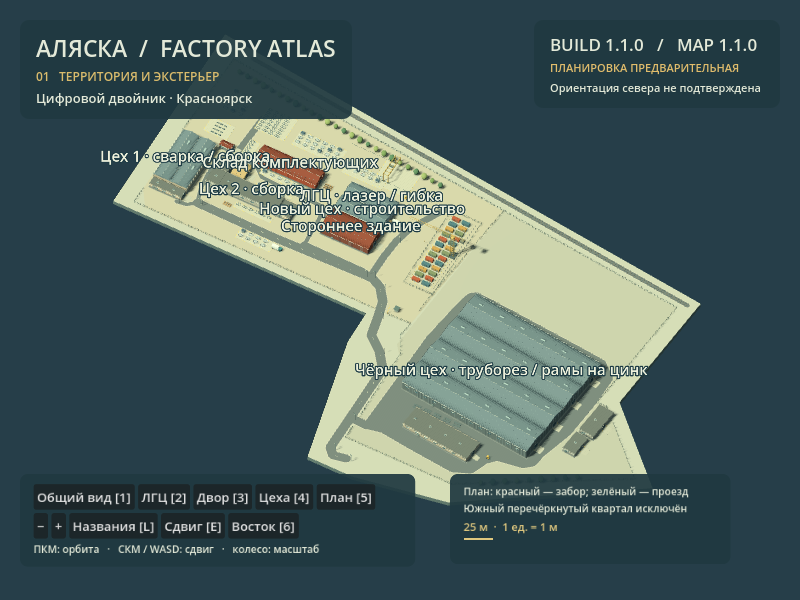
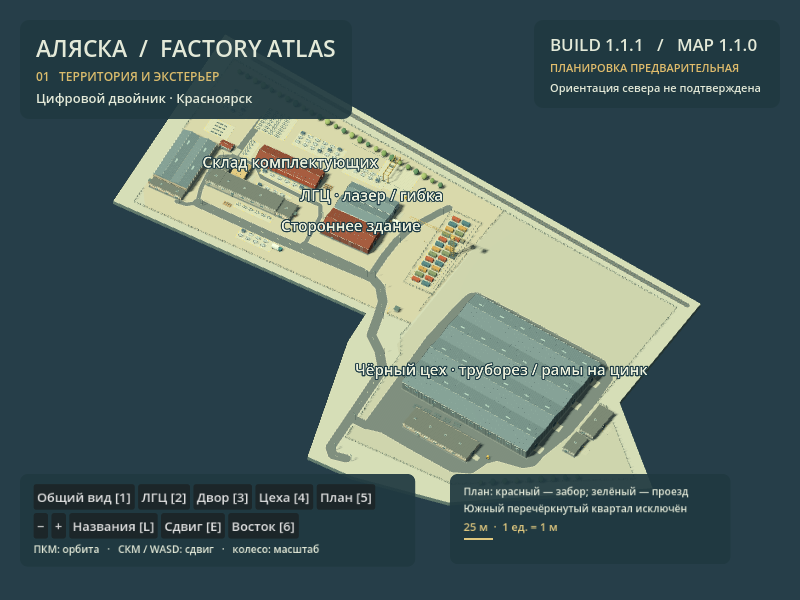
Correct roof normals, office entrances and readable labels with mesh regression checks

diff --git a/docs/ACCEPTANCE.md b/docs/ACCEPTANCE.md
@@ -1,4 +1,4 @@
-# BUILD / MAP 1.1.0 — проверка исправленной планировки
+# BUILD 1.1.1 / MAP 1.1.0 — проверка исправленной планировки
 
 ## Что исправлено относительно 1.0.0
 
@@ -6,10 +6,12 @@
 - Удалена придуманная прямоугольная сетка дорог и неверный общий периметр. Теперь это оцифрованные полилинии с поворотами и раздельными границами участков.
 - Цех 1 ориентирован с севера на юг, а не вдоль цеха 2. Цех 2, малярка и офис 2 собраны в вытянутый составной объём с плоскими кровлями.
 - Восточный чёрный цех восстановлен в масштабе большого контура на карте (108×94 m, оценка), а не оставлен маленьким 29×44 m сараем. Добавлены корпуса, видимые к югу/востоку от него, без выдуманного назначения.
+- У офисов сделаны человеческие входы с крыльцом, ступенями, козырьком и низкими окнами вместо грузовых ворот выше самого здания. Вход офиса 1 обращён к западной стороне, как на указании в исходном референсе.
 - ЛГЦ / стройка / красное стороннее здание сближены по карте. У нового цеха обшитый фронтон, открытый проём, леса, склад панелей и бочка по фото.
 - У контейнерной площадки появился отдельный башенный кран на рельсовом ходу; козловой кран погрузки на цинк не выдаётся за него.
 - Перечёркнутый южный чужой квартал исключён из моделирования. На нём нет заводских объектов; презентационная подложка вырезана вместо большого пустого прямоугольника.
-- Исправлен порядок масштабирования/поворота деталей кровли, убраны нестабильные микротени швов и включено MSAA 2×.
+- Подписи автоматически скрываются при пересечении, чтобы не накладываться друг на друга на компактном экране.
+- Исправлен порядок масштабирования/поворота деталей кровли, исправлены направленные внутрь нормали кровель и убраны нестабильные микротени швов и включено MSAA 2×.
 
 ## Фактические изображения WebGL
 
@@ -27,7 +29,7 @@
 
 ## Проверки
 
-`tools/validate.sh`: Godot 4.4.1 import + запуск сцены на 30 кадров; проверка stdout/stderr даже при нулевом коде выхода. `tools/check_site.py`: 16 повёрнутых контуров, отсутствие пересечений зданий/дорог и перекрытия проездов заборами, отсутствие объектов и дорог на исключённом участке, согласование двух метрических опор и контроль ориентации цеха 1 / размера восточного корпуса. Проверки не отключались ради прохождения.
+`tools/validate.sh`: Godot 4.4.1 import + запуск сцены на 30 кадров + независимые проверки нормалей кровли, метрических размеров и ортогональности повёрнутых деталей; проверка stdout/stderr даже при нулевом коде выхода. `tools/check_site.py`: 16 повёрнутых контуров, отсутствие пересечений зданий/дорог и перекрытия проездов заборами, отсутствие объектов и дорог на исключённом участке, согласование двух метрических опор и контроль ориентации цеха 1 / размера восточного корпуса. Проверки не отключались ради прохождения.
 
 `tools/capture.cjs`: Chromium/WebGL 2; проверка BUILD/MAP, настоящий выбор ЛГЦ лучом мыши, обратимый сдвиг на метр, шесть ракурсов и два состояния интерфейса. Журналы и SHA-256 экспортированных артефактов лежат рядом со скриншотами.
 

diff --git a/docs/MEASUREMENTS.md b/docs/MEASUREMENTS.md
@@ -21,7 +21,7 @@
 | Новый цех · строительство | 38 × 13 × 7.5 | 0° | ПО КАРТЕ · ОЦЕНКА |
 | Стороннее здание | 39 × 20 × 7 | 0° | ПО КАРТЕ · ОЦЕНКА |
 | Цех 1 · сварка / сборка | 44 × 27 × 6.5 | -90° | ПО КАРТЕ · ОЦЕНКА |
-| Офис 1 · вход | 26 × 7 × 3.6 | 0° | ПО КАРТЕ · ОЦЕНКА |
+| Офис 1 · вход | 26 × 7 × 3.6 | 180° | ПО КАРТЕ · ОЦЕНКА |
 | Цех 2 · сборка | 47 × 13 × 5.8 | 0° | ПО КАРТЕ · ОЦЕНКА |
 | Офис 2 · продажи | 11 × 13 × 4 | 0° | ПО КАРТЕ · ОЦЕНКА |
 | Пескоструй | 10 × 10 × 5 | 0° | ПО КАРТЕ · ОЦЕНКА |

diff --git a/README.md b/README.md
@@ -1,6 +1,6 @@
 # Alaska Factory — exterior atlas
 
-Godot **4.4.1**, GL Compatibility, Web. **BUILD 1.1.0 / MAP 1.1.0**.
+Godot **4.4.1**, GL Compatibility, Web. **BUILD 1.1.1 / MAP 1.1.0**.
 One world unit = one metre. Exterior only. Map-derived anchors and provisional estimates are kept separate; this is not a surveyed digital twin.
 
 ## Develop
